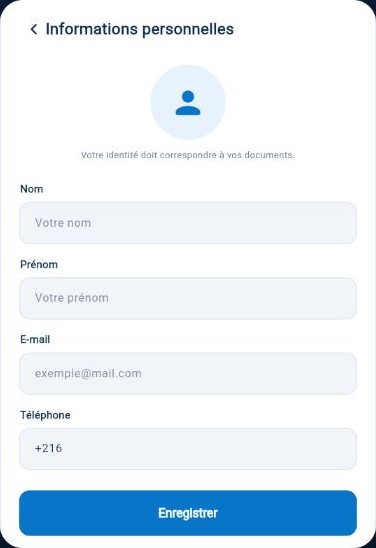
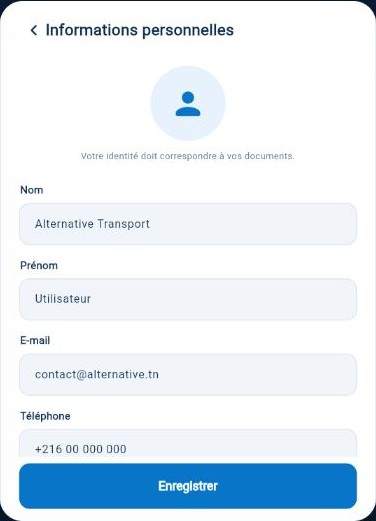
fix(ui): bouton duplique sur Mes documents et preremplissage des informations personnelles

diff --git a/lib/screens/profile/personal_info_screen.dart b/lib/screens/profile/personal_info_screen.dart
@@ -1,6 +1,7 @@
 import 'package:flutter/material.dart';
 import 'package:flutter_riverpod/flutter_riverpod.dart';
 
+import '../../core/constants/app_constants.dart';
 import '../../core/theme/app_colors.dart';
 import '../../core/utils/validators.dart';
 import '../../providers/auth_provider.dart';
@@ -27,10 +28,14 @@ class _PersonalInfoScreenState extends ConsumerState<PersonalInfoScreen> {
   void initState() {
     super.initState();
     final user = ref.read(authProvider).user;
-    _firstName = TextEditingController(text: user?.firstName ?? '');
-    _lastName = TextEditingController(text: user?.lastName ?? '');
-    _email = TextEditingController(text: user?.email ?? '');
-    _phone = TextEditingController(text: user?.phone ?? '+216 ');
+    _firstName = TextEditingController(
+      text: user?.firstName ?? AppConstants.guestFirstName,
+    );
+    _lastName = TextEditingController(
+      text: user?.lastName ?? AppConstants.guestLastName,
+    );
+    _email = TextEditingController(text: user?.email ?? AppConstants.guestEmail);
+    _phone = TextEditingController(text: user?.phone ?? AppConstants.guestPhone);
   }
 
   @override

diff --git a/lib/screens/profile/profile_screen.dart b/lib/screens/profile/profile_screen.dart
@@ -1,6 +1,7 @@
 import 'package:flutter/material.dart';
 import 'package:flutter_riverpod/flutter_riverpod.dart';
 
+import '../../core/constants/app_constants.dart';
 import '../../core/router/app_router.dart';
 import '../../core/theme/app_colors.dart';
 import '../../core/utils/formatters.dart';
@@ -51,8 +52,8 @@ class ProfileScreen extends ConsumerWidget {
   @override
   Widget build(BuildContext context, WidgetRef ref) {
     final user = ref.watch(authProvider).user;
-    final name = user?.fullName ?? 'Utilisateur Alternative Transport';
-    final email = user?.email ?? 'contact@alternative.tn';
+    final name = user?.fullName ?? AppConstants.guestName;
+    final email = user?.email ?? AppConstants.guestEmail;
     final initials = user == null
         ? 'AT'
         : initialsOf(user.firstName, user.lastName);

diff --git a/lib/core/constants/app_constants.dart b/lib/core/constants/app_constants.dart
@@ -23,6 +23,13 @@ abstract final class AppConstants {
   static const accessCodeValidity = Duration(minutes: 15);
   static const otpResendDelay = Duration(seconds: 45);
 
+  /// Identité affichée lorsque aucun utilisateur n'est connecté (mode démo).
+  static const guestName = 'Utilisateur Alternative Transport';
+  static const guestFirstName = 'Utilisateur';
+  static const guestLastName = 'Alternative Transport';
+  static const guestEmail = 'contact@alternative.tn';
+  static const guestPhone = '+216 00 000 000';
+
   static const images = 'assets/images';
   static const heroWelcome = '$images/hero_welcome.png';
   static const carBika = '$images/car_bika.png';

diff --git a/lib/screens/documents/documents_screen.dart b/lib/screens/documents/documents_screen.dart
@@ -327,7 +327,7 @@ class _DocumentsScreenState extends ConsumerState<DocumentsScreen> {
                           OutlinedButton.icon(
                             onPressed: () => _showDetails(documents),
                             icon: const Icon(Icons.upload_file_rounded, size: 17),
-                            label: const Text('Voir les détails'),
+                            label: const Text('Mettre à jour'),
                           ),
                         ],
                       ),
